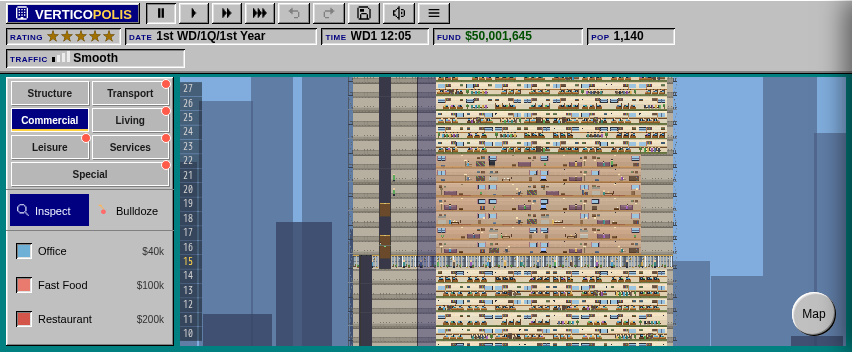
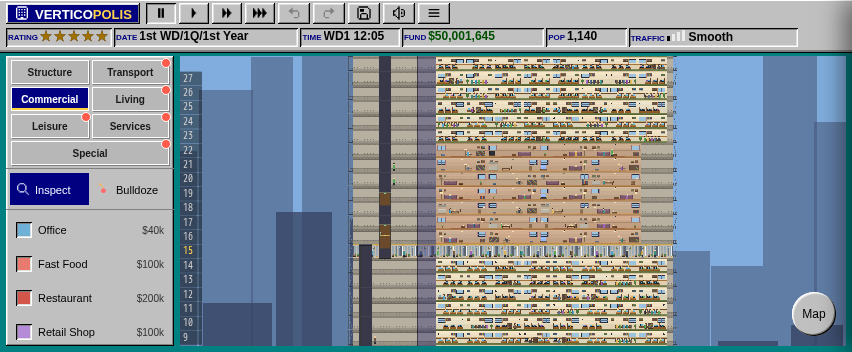
Fix landscape stat-chip wrapping regression on main (#1836)
* fix(ui): keep landscape phone stats on one row without shrinking values

* chore(release): bump landscape hotfix to 2.85.2

* Update screenshots from CI (approved on PR #1836)

---------

diff --git a/src/styles.css b/src/styles.css
@@ -2535,6 +2535,25 @@ body.splash-up #toast-wrap { z-index: 45; }
   }
 }
 
+/* At Pixel-class landscape widths the larger funds/population chips from
+   #1830 can make #status wrap into a third line (71px top bar at 852×352).
+   Keep the buttons and stats on their own rows without clipping values. The
+   narrower split-screen tier below 820px still wraps naturally, as designed.
+   Tighten only the labels and in-chip spacing, not the pinned value widths. */
+@media (min-width: 820px) and (max-width: 1023px) and (max-height: 599px) and (orientation: landscape) {
+  #status {
+    flex-wrap: nowrap;
+    gap: 2px;
+  }
+  .stat {
+    padding: 2px 2px;
+    gap: 2px;
+  }
+  .stat .label {
+    letter-spacing: 0;
+  }
+}
+
 /* A sideways window under 340px tall (split screen, a short desktop window),
    or one under 540px wide whose top bar wraps to four or five lines, would
    wrap the seven category tabs into four rows and leave the open category

diff --git a/CHANGELOG.md b/CHANGELOG.md
@@ -21,6 +21,10 @@ Entries below 1.51.1 were curated from the commit history after the fact, so the
 are documentation only: a client only ever fetches the currently deployed build's
 notes, never a past version's.
 
+## 2.85.2
+
+- On a phone held sideways, the funds and population stats stay on one row without cutting off their values.
+
 ## 2.85.1
 
 - Holding Space before a mouse drag now pans the view without building or clicking a focused control. Tapping Space acts at the keyboard cursor when you let go.
